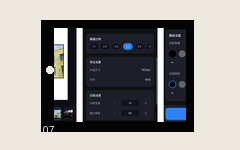
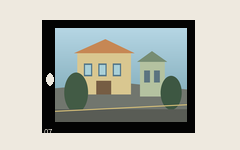
chore: unify film frame selector artwork

diff --git a/tools/generate-film-frame-collection.py b/tools/generate-film-frame-collection.py
@@ -23,6 +23,12 @@ STYLE_IDS = [
     'film-110-pocket',
     'film-contact-sheet',
 ]
+RUNTIME_PREVIEW_IDS = [
+    'film-strip-35mm-full',
+    'film-rebate-minimal',
+    'medium-format-120',
+    *STYLE_IDS,
+]
 STYLE_LABELS = {
     'film-35mm-mono': '35mm 黑白片基',
     'film-35mm-warm': '35mm 暖调片基',
@@ -183,10 +189,31 @@ def render(style_id, size, margin, title=None, source=None):
     return canvas, layout
 
 
+def render_legacy_medium_preview(size, source):
+    """Rebuild the existing legacy 120 selector with the common neutral photo.
+
+    The runtime legacy renderer remains untouched; this maintains its visible
+    asymmetric body and archive dot while removing the obsolete UI screenshot
+    from its selector asset.
+    """
+    canvas = Image.new('RGB', size, '#EEE9DF')
+    draw = ImageDraw.Draw(canvas)
+    box = {'x': size[0] * .23, 'y': size[1] * .19, 'width': size[0] * .55, 'height': size[1] * .63}
+    top, right, bottom, left = 8, 7, 9, 13
+    draw.rectangle((round(box['x'] - left), round(box['y'] - top),
+                    round(box['x'] + box['width'] + right), round(box['y'] + box['height'] + bottom)), fill='#030303')
+    paste_aperture(canvas, source, box)
+    draw.ellipse((round(box['x'] - left * .72), round(box['y'] + box['height'] * .47),
+                  round(box['x'] - left * .2), round(box['y'] + box['height'] * .6)), fill='#EEE9DF')
+    draw.text((round(box['x'] - left + 2), round(box['y'] + box['height'] + 2)), '07', fill='#EEE9DF', font=font(8))
+    return canvas
+
+
 def generate_previews():
     PREVIEW_DIR.mkdir(parents=True, exist_ok=True)
-    for style_id in STYLE_IDS:
-        image, _ = render(style_id, (240, 150), 18)
+    source = photo_source()
+    for style_id in RUNTIME_PREVIEW_IDS:
+        image = render_legacy_medium_preview((240, 150), source) if style_id == 'medium-format-120' else render(style_id, (240, 150), 18, source=source)[0]
         output = PREVIEW_DIR / f'{style_id}.png'
         image.save(output, optimize=True)
         if output.stat().st_size > 15 * 1024:
